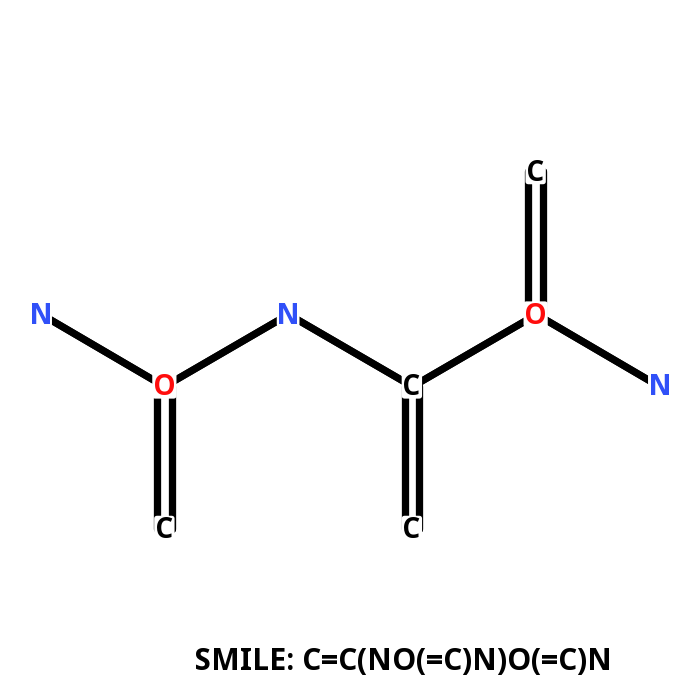
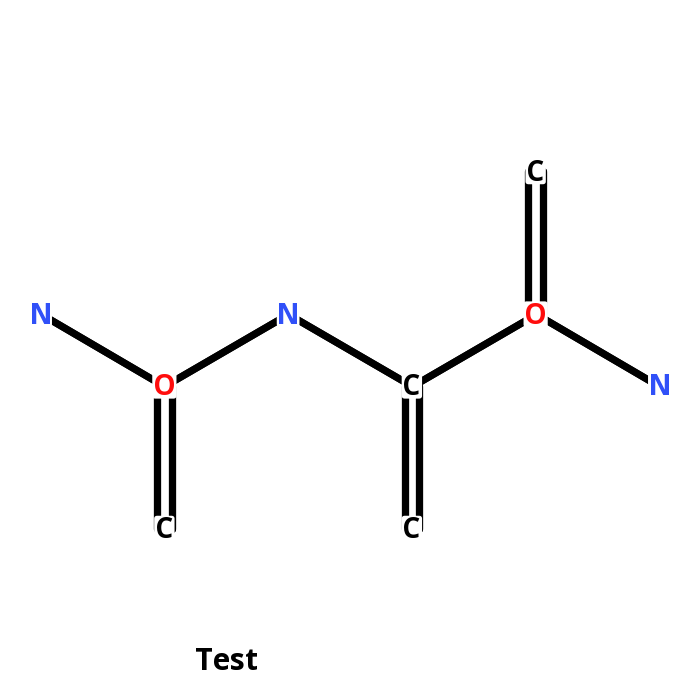
Imagenes con titulo

Changed region(s): [[0.27, 0.9, 0.87, 0.96]]

diff --git a/src/main/java/com/smiles/v2/main/domain/generator/WriteAndGenerate.java b/src/main/java/com/smiles/v2/main/domain/generator/WriteAndGenerate.java
@@ -194,13 +194,13 @@ public class WriteAndGenerate {
      *
      * @param generateList List of molecules permutes.
      */
-    private void saveImages(MoleculesListAbstract generateList) { // UNCHECK
+    private void saveImages(final MoleculesListAbstract generateList) { // UNCHECK
         final List<Molecule> list = generateList.getListMolecule();
         int i = 0;
         for (Molecule molecule : list) {
             String name = principal.getName() + "_" + i++ + ".png";
 
-            BufferedImage bi = molecule.getImage(WIDTH, HEIGHT);
+            BufferedImage bi = molecule.getImage(WIDTH, HEIGHT, "SMILE: " + molecule.smile());
             try {
                 ImageIO.write(bi, "png", new File(saveImages + System.getProperty("file.separator") + name));
             } catch (IOException e) {

diff --git a/src/main/java/com/smiles/v2/main/framework/cdk/GenerateImage.java b/src/main/java/com/smiles/v2/main/framework/cdk/GenerateImage.java
@@ -33,9 +33,10 @@ import org.openscience.cdk.renderer.visitor.AWTDrawVisitor;
  */
 public class GenerateImage {
     private MoleculeData molecule;
-
-    GenerateImage(final MoleculeData moleculeData) {
+    private String title;
+    GenerateImage(final MoleculeData moleculeData,String title) {
         this.molecule = moleculeData;
+        this.title = title;
     }
 
     /**
@@ -98,8 +99,8 @@ public class GenerateImage {
         String smile = molecule.absoluteSmile();
         FontMetrics metrics = graphics2D.getFontMetrics(font);
         int x = (width - metrics.stringWidth(smile)) / 2;
+        if(title != null) graphics2D.drawString(title, x, height - 30);
 
-        graphics2D.drawString("SMILE: " + molecule.absoluteSmile(), x, height - 30); // UNCHECK
         return image;
     }
 

diff --git a/src/main/java/com/smiles/v2/main/domain/models/Molecule.java b/src/main/java/com/smiles/v2/main/domain/models/Molecule.java
@@ -260,10 +260,12 @@ public class Molecule extends Smiles implements MoleculeComparableInterface {
      *
      * @param width  of image.
      * @param height of image.
+     * @param title
      * @return BufferedImage.
      *
+     *
      */
-    public BufferedImage getImage(final int width, final int height) {
-        return moleculeDataOfSmile.getImage(width, height);
+    public BufferedImage getImage(final int width, final int height, final String title) {
+        return moleculeDataOfSmile.getImage(width, height, title);
     }
 }

diff --git a/src/test/java/com/smiles/v2/main/domain/models/MoleculeTest.java b/src/test/java/com/smiles/v2/main/domain/models/MoleculeTest.java
@@ -228,7 +228,7 @@ public class MoleculeTest {
                 Molecule sustituto = fusion.getSubstitute(1);
                 ORIGINAL_OUT.println(sustituto.smile());
                 fusion = Molecule.fusionMolecule(fusion, mol2, 2, 1);
-                BufferedImage bi = fusion.getImage(700, 700);
+                BufferedImage bi = fusion.getImage(700, 700, "Test");
                 try {
                         ImageIO.write(bi, "png", new File("test.png"));
                 } catch (IOException e) {

diff --git a/src/main/java/com/smiles/v2/main/framework/cdk/MoleculeData.java b/src/main/java/com/smiles/v2/main/framework/cdk/MoleculeData.java
@@ -419,8 +419,8 @@ public class MoleculeData implements MoleculeDataInterface {
      * {@inheritDoc}
      */
     @Override
-    public BufferedImage getImage(final int width, final int height) {
-        GenerateImage generateImage = new GenerateImage(this);
+    public BufferedImage getImage(final int width, final int height, final String title) {
+        GenerateImage generateImage = new GenerateImage(this, title);
         return generateImage.getImage(width, height);
     }
 }

diff --git a/src/main/java/com/smiles/v2/main/interfaces/MoleculeDataInterface.java b/src/main/java/com/smiles/v2/main/interfaces/MoleculeDataInterface.java
@@ -90,8 +90,9 @@ public interface MoleculeDataInterface extends MoleculeComparableInterface {
      *
      * @param width  of image.
      * @param height of image.
+     * @param title  of image.
      * @return BufferedImage.
      *
      */
-    BufferedImage getImage(int width, int height);
+    BufferedImage getImage(int width, int height, String title);
 }
